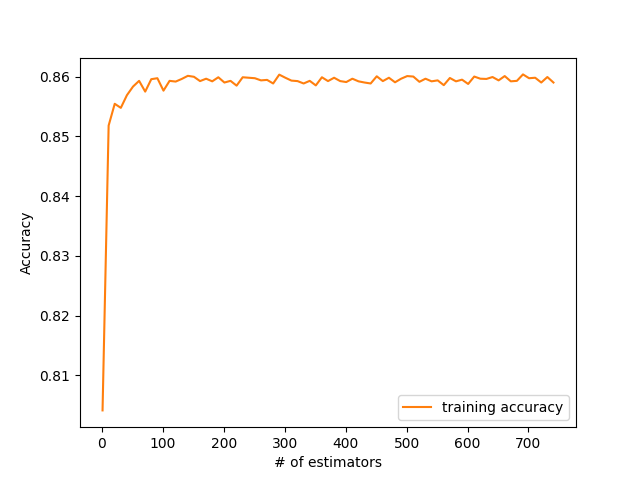
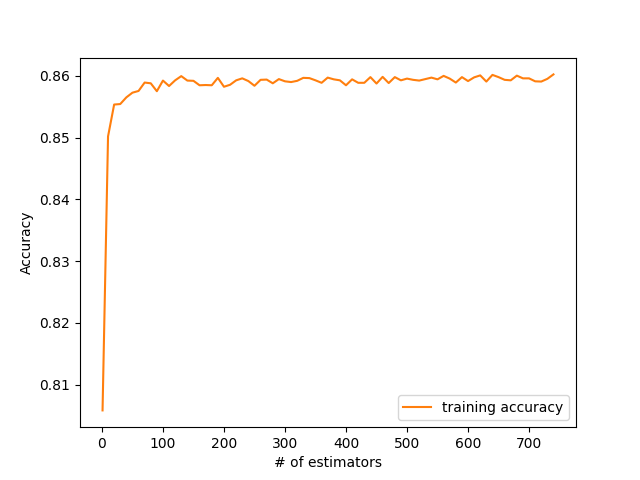
added plots

diff --git a/plots.py b/plots.py
@@ -1,0 +1,196 @@
+import numpy as np
+import pandas as pd
+import matplotlib.pyplot as plt
+# import helper
+
+print("loading training data...")
+raw_train = pd.read_csv("./data/train.csv")
+print(raw_train)
+
+
+# age - Continuous #################################
+fig = plt.figure()
+ax = fig.add_subplot(1,1,1)
+ax.hist(raw_train['age'], bins = 20, color = '#fb293a')
+ax.set_ylabel('Count')
+ax.set_xlabel('Age (years)')
+plt.savefig("./reports/img/age.png")
+# plt.show()
+plt.close()
+
+# workclass - Categorical #################################
+fig = plt.figure()
+ax = fig.add_subplot(1,1,1)
+values = raw_train['workclass'].value_counts().index
+counts = raw_train['workclass'].value_counts().values
+ax.bar(values, counts, color = '#fb293a')
+plt.xticks(rotation=90, ha='right')
+plt.subplots_adjust(bottom=0.325)
+ax.set_ylabel('Count')
+ax.set_xlabel('workclass')
+plt.savefig("./reports/img/workclass.png")
+# plt.show()
+plt.close()
+
+# fnlwgt - Continuous #################################
+fig = plt.figure()
+ax = fig.add_subplot(1,1,1)
+ax.hist(raw_train['fnlwgt'], bins=20, color = '#fb293a')
+ax.set_ylabel('Count')
+ax.set_xlabel('fnlwgt')
+plt.savefig("./reports/img/fnlwgt.png")
+# plt.show()
+plt.close()
+
+# education - Categorical #################################
+fig = plt.figure()
+ax = fig.add_subplot(1,1,1)
+values = raw_train['education'].value_counts().index
+counts = raw_train['education'].value_counts().values
+ax.bar(values, counts, color = '#fb293a')
+plt.xticks(rotation=90, ha='right')
+plt.subplots_adjust(bottom=0.31)
+ax.set_ylabel('Count')
+ax.set_xlabel('Education')
+plt.savefig("./reports/img/education.png")
+# plt.show()
+plt.close()
+
+# education-num - Continuous #################################
+fig = plt.figure()
+ax = fig.add_subplot(1,1,1)
+ax.hist(raw_train['education.num'], bins=20, color = '#fb293a')
+ax.set_ylabel('Count')
+ax.set_xlabel('Education (years)')
+plt.savefig("./reports/img/education-num.png")
+# plt.show()
+plt.close()
+
+# marital-status - Categorical #################################
+fig = plt.figure()
+ax = fig.add_subplot(1,1,1)
+values = raw_train['marital.status'].value_counts().index
+counts = raw_train['marital.status'].value_counts().values
+ax.bar(values, counts, color = '#fb293a')
+plt.xticks(rotation=90, ha='right')
+plt.subplots_adjust(bottom=0.45)
+ax.set_ylabel('Count')
+ax.set_xlabel('Marital Status')
+plt.savefig("./reports/img/marital-status.png")
+# plt.show()
+plt.close()
+
+# occupation - Categorical #################################
+fig = plt.figure()
+ax = fig.add_subplot(1,1,1)
+values = raw_train['occupation'].value_counts().index
+counts = raw_train['occupation'].value_counts().values
+ax.bar(values, counts, color = '#fb293a')
+plt.xticks(rotation=90, ha='right')
+plt.subplots_adjust(bottom=0.38)
+ax.set_ylabel('Count')
+ax.set_xlabel('Occupation')
+plt.savefig("./reports/img/occupation.png")
+# plt.show()
+plt.close()
+
+# relationship - Categorical #################################
+fig = plt.figure()
+ax = fig.add_subplot(1,1,1)
+values = raw_train['relationship'].value_counts().index
+counts = raw_train['relationship'].value_counts().values
+ax.bar(values, counts, color = '#fb293a')
+plt.xticks(rotation=90, ha='right')
+plt.subplots_adjust(bottom=0.325)
+ax.set_ylabel('Count')
+ax.set_xlabel('Relationship')
+plt.savefig("./reports/img/relationship.png")
+# plt.show()
+plt.close()
+
+# race - Categorical #################################
+fig = plt.figure()
+ax = fig.add_subplot(1,1,1)
+values = raw_train['race'].value_counts().index
+counts = raw_train['race'].value_counts().values
+ax.bar(values, counts, color = '#fb293a')
+plt.xticks(rotation=90, ha='right')
+plt.subplots_adjust(bottom=0.36)
+ax.set_ylabel('Count')
+ax.set_xlabel('Race')
+plt.savefig("./reports/img/race.png")
+# plt.show()
+plt.close()
+
+# sex - Categorical #################################
+fig = plt.figure()
+ax = fig.add_subplot(1,1,1)
+values = raw_train['sex'].value_counts().index
+counts = raw_train['sex'].value_counts().values
+ax.bar(values, counts, color = '#fb293a')
+plt.xticks(rotation=90, ha='right')
+plt.subplots_adjust(bottom=0.2)
+ax.set_ylabel('Count')
+ax.set_xlabel('Sex')
+plt.savefig("./reports/img/sex.png")
+# plt.show()
+plt.close()
+
+# capital-gain - Continuous #################################
+fig = plt.figure()
+ax = fig.add_subplot(1,1,1)
+ax.hist(raw_train['capital.gain'], bins=20, color = '#fb293a')
+ax.set_ylabel('Count')
+ax.set_xlabel('Capital Gain')
+plt.yscale('log')
+plt.savefig("./reports/img/capital-gain.png")
+# plt.show()
+plt.close()
+
+# capital-loss - Continuous #################################
+fig = plt.figure()
+ax = fig.add_subplot(1,1,1)
+ax.hist(raw_train['capital.loss'], bins=20, color = '#fb293a')
+ax.set_ylabel('Count')
+ax.set_xlabel('Capital Loss')
+plt.yscale('log')
+plt.savefig("./reports/img/capital-loss.png")
+# plt.show()
+plt.close()
+
+# hours-per-week - Continuous #################################
+fig = plt.figure()
+ax = fig.add_subplot(1,1,1)
+ax.hist(raw_train['hours.per.week'], bins=20, color = '#fb293a')
+ax.set_ylabel('Count')
+ax.set_xlabel('Work hours per week')
+plt.savefig("./reports/img/hours-per-week.png")
+# plt.show()
+plt.close()
+
+# native-country - Categorical #################################
+fig = plt.figure()
+ax = fig.add_subplot(1,1,1)
+values = raw_train['native.country'].value_counts().index
+counts = raw_train['native.country'].value_counts().values
+ax.bar(values, counts, color = '#fb293a')
+plt.xticks(rotation=90, ha='right')
+plt.subplots_adjust(bottom=0.5)
+ax.set_ylabel('Count')
+ax.set_xlabel('Native Country')
+plt.yscale('log')
+plt.savefig("./reports/img/native-country.png")
+# plt.show()
+plt.close()
+
+# income>50k - Binary #################################
+fig = plt.figure()
+ax = fig.add_subplot(1,1,1)
+values = raw_train['income>50K'].value_counts().index
+counts = raw_train['income>50K'].value_counts().values
+ax.bar(values, counts, color = '#fb293a')
+ax.set_ylabel('Count')
+ax.set_xlabel('Label: income>50K')
+plt.savefig("./reports/img/income>50K.png")
+# plt.show()
+plt.close()

diff --git a/rf.py b/rf.py
@@ -31,7 +31,8 @@ ys_train = train['income>50K']
 
 # create Random Forest Classifier and do 5-fold CV
 print("5-fold cross-validation...")
-xs = range(1, 750, 10)
+xs = np.arange(0, 810, 10)
+xs[0] = 1
 scores = []
 max_score = -1
 best_x = 0

diff --git a/adaboost.py b/adaboost.py
@@ -34,7 +34,8 @@ ys_train = train['income>50K']
 
 # create AdaBoost Classifier and do 5-fold CV
 print("5-fold cross-validation...")
-xs = range(1, 750, 10)
+xs = np.arange(0, 810, 10)
+xs[0] = 1
 scores = []
 max_score = -1
 best_x = 0
